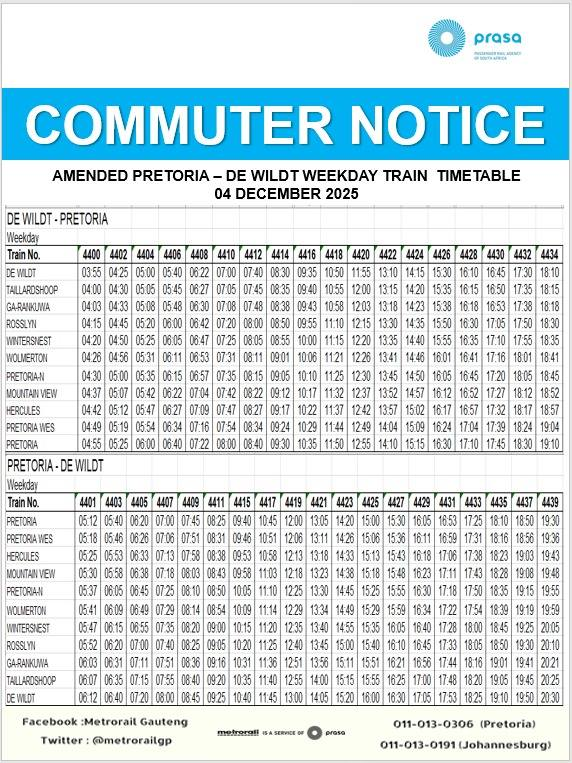
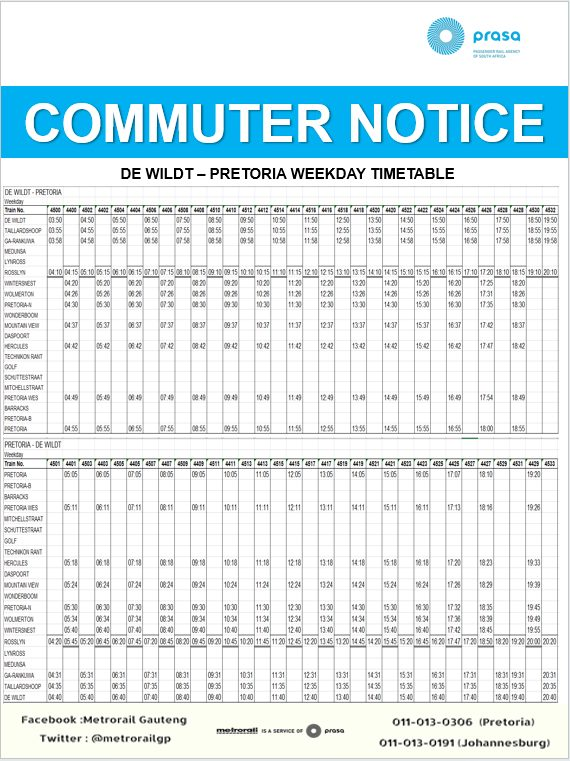
Official timetables issued in Jan-Mar 2026

diff --git a/src/content/docs/metrorail/kemptonpark-pretoria.md b/src/content/docs/metrorail/kemptonpark-pretoria.md
@@ -17,19 +17,15 @@ sidebar:
 
 ![](kemptonpark-pretoria-weekday.jpg)
 
+<!-- TODO https://www.facebook.com/photo.php?fbid=25698271136470092&set=p.25698271136470092&type=3 -->
+
 ### Saturdays and holidays
 
 #### Terminating at Kempton Park
 
-[Issued 2025-09-13](https://www.facebook.com/photo?fbid=854546010801651&set=pcb.1403050294815703)
+[Issued 2026-03-02](https://www.facebook.com/photo.php?fbid=1382995197199142&set=pb.100064660243057.-2207520000&type=3)
 
 ![](kemptonpark-pretoria-saturday.jpg)
-
-#### Terminating at Irene
-
-[Source](https://www.facebook.com/photo?fbid=854545744135011&set=pcb.1403050294815703)
-
-![](irene-pretoria-saturday.jpg)
 
 ## How to help out
 

diff --git a/src/content/docs/metrorail/saulsville-pretoria.md b/src/content/docs/metrorail/saulsville-pretoria.md
@@ -12,9 +12,10 @@ sidebar:
 
 ### Weekday
 
-[Issued 2025-11-28](https://www.facebook.com/photo.php?fbid=1305774848254511&set=pb.100064660243057.-2207520000&type=3)
+[Issued 2026-01-29](https://www.facebook.com/photo/?fbid=1353652043466791&set=pb.100064660243057.-2207520000)
 
-![](saulsville-pretoria-weekday.jpg)
+![](saulsville-pretoria-weekday-inbound.jpg)
+![](saulsville-pretoria-weekday-outbound.jpg)
 
 ### Saturdays and holidays
 

diff --git a/src/content/docs/metrorail/leralla-germiston.md b/src/content/docs/metrorail/leralla-germiston.md
@@ -22,6 +22,8 @@ See the [December 2025 scaled-down timetable](https://www.facebook.com/photo/?fb
 
 ![](leralla-germiston-dec2025-scaledown.jpg)
 
+<!-- TODO https://www.facebook.com/photo.php?fbid=10232298480666930&set=p.10232298480666930&type=3 -->
+
 ### Saturdays and holidays
 
 [Issued 2025-08-02](https://www.facebook.com/photo?fbid=854546027468316&set=pcb.1403050294815703)

diff --git a/src/content/docs/metrorail/kwesine-germiston.md b/src/content/docs/metrorail/kwesine-germiston.md
@@ -12,7 +12,7 @@ sidebar:
 
 ### Weekday
 
-[Issued 2025-07-17](https://www.facebook.com/photo/?fbid=1191155059716491&set=pb.100064660243057.-2207520000)
+[Issued 2026-02-18](https://www.facebook.com/photo.php?fbid=1372156641616331&set=pb.100064660243057.-2207520000&type=3)
 
 ![](kwesine-germiston-weekday.jpg)
 

diff --git a/src/content/docs/metrorail/mabopane-belleombre.md b/src/content/docs/metrorail/mabopane-belleombre.md
@@ -12,7 +12,7 @@ sidebar:
 
 ### Weekday
 
-[Issued 2025-12-04](https://www.facebook.com/photo?fbid=1307098074788855&set=pcb.1307098178122178)
+[Issued 2026-02-02](https://www.facebook.com/photo.php?fbid=1359267152905280&set=pb.100064660243057.-2207520000&type=3)
 
 ![](mabopane-belleombre-weekday.jpg)
 

diff --git a/src/content/docs/metrorail/dewildt-pretoria.md b/src/content/docs/metrorail/dewildt-pretoria.md
@@ -13,7 +13,7 @@ sidebar:
 
 ### Weekday
 
-[Issued 2025-12-04](https://www.facebook.com/photo/?fbid=1307098031455526&set=pcb.1307098178122178)
+[Issued 2026-03-02](https://www.facebook.com/photo.php?fbid=1382994207199241&set=pb.100064660243057.-2207520000&type=3)
 
 ![](dewildt-pretoria-weekday.jpg)
 

diff --git a/src/content/docs/metrorail/mabopane-pretoria.md b/src/content/docs/metrorail/mabopane-pretoria.md
@@ -13,7 +13,7 @@ sidebar:
 
 ### Weekday
 
-[Issued 2025-12-04](https://www.facebook.com/photo?fbid=1307098121455517&set=pcb.1307098178122178)
+[Issued 2026-02-02](https://www.facebook.com/photo/?fbid=1359267119571950&set=pb.100064660243057.-2207520000)
 
 ![](mabopane-pretoria-weekday.jpg)
 
